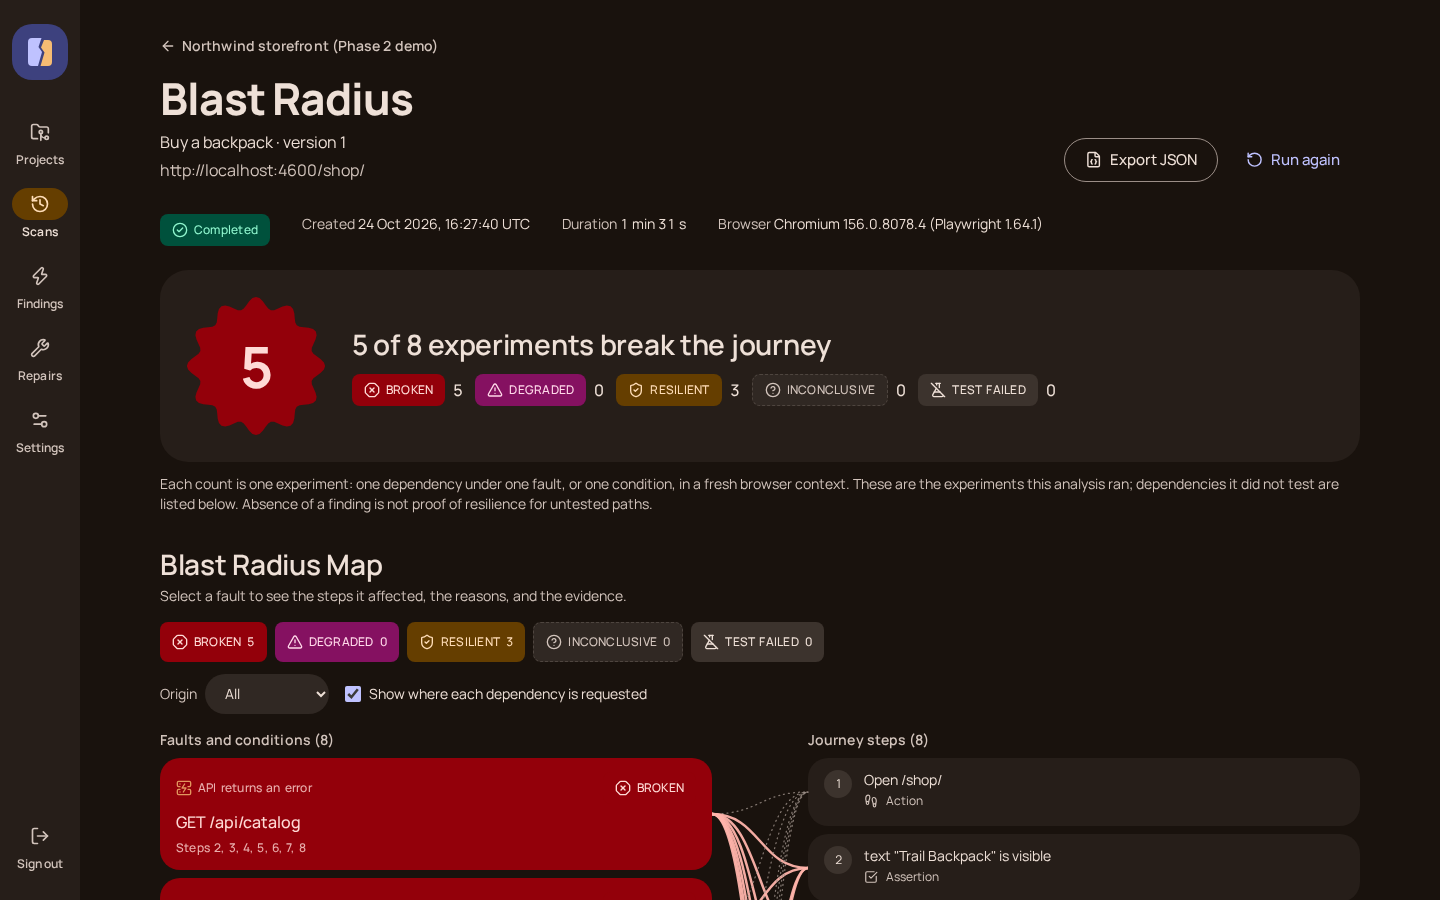
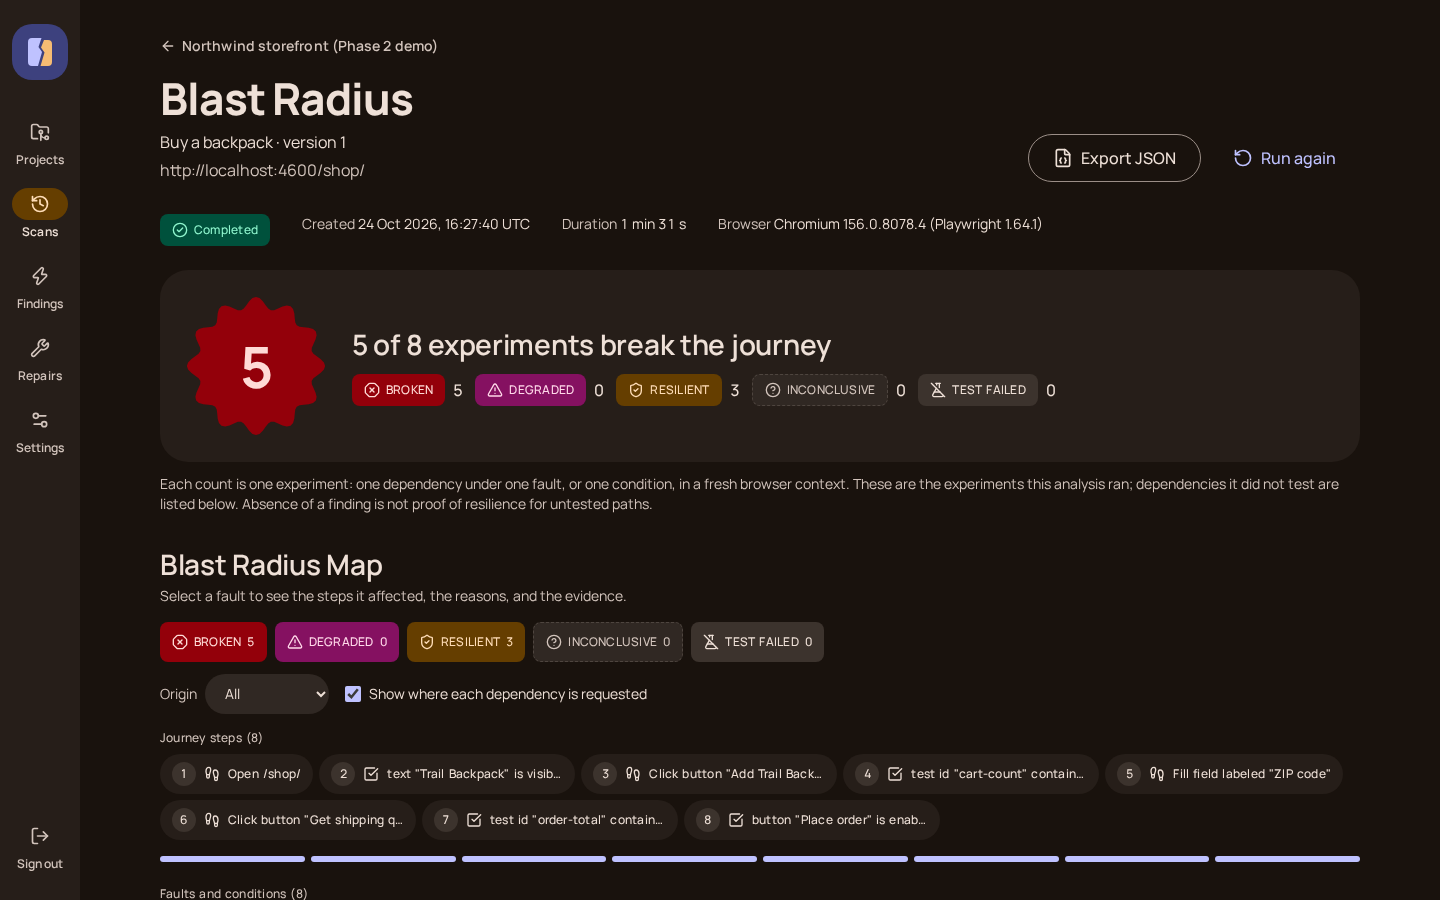
test(ui): commit visual baselines; docs: Phase 4.6 screenshots and before/after pairs
- 24 visual baselines under apps/web/tests/visual/__screenshots__ (6 screens x desktop/mobile
  x dark/light, reduced motion), captured from the live build at ac99b80 against stored records.
- tests/visual/capture-docs.mjs recaptures the documentation screenshots signed in as the
  visual-snapshots operator; global setup also records the new-scan, new-analysis, settings,
  report and real-app targets it uses.
- docs/screenshots: 01, 10 and real-app/01 recaptured; 11-16 added (new-scan, new-analysis,
  journey builder, settings, scan detail, report). Evidence screenshots untouched.
- docs/design/before-after: 9 Phase 4.6 pairs (4.6-*.before/after.png). Before images for
  01, 10 and real-app/01 are the Phase 4.5 captures; the others come from a build of 21f4b6a.

Changed region(s): [[0.0938, 0.8089, 0.9375, 1.0], [0.7188, 0.1556, 0.9375, 0.1867], [0.7812, 0.84, 0.9062, 0.8711]]

diff --git a/apps/web/tests/visual/global-setup.ts b/apps/web/tests/visual/global-setup.ts
@@ -5,7 +5,7 @@ import { fileURLToPath } from "node:url";
 import { chromium, type FullConfig } from "@playwright/test";
 import { config as loadEnv } from "dotenv";
 import { and, desc, eq, isNotNull, ne } from "drizzle-orm";
-import { createDatabase, journeys, repairRequests, scans } from "@faultline/db";
+import { createDatabase, journeys, projects, repairRequests, scans } from "@faultline/db";
 
 const root = fileURLToPath(new URL("../../../../", import.meta.url));
 const out = fileURLToPath(new URL("../../test-results/visual/", import.meta.url));
@@ -33,6 +33,13 @@ export default async function globalSetup(config: FullConfig) {
       .orderBy(desc(scans.finishedAt))
       .limit(1);
     const [journey] = await db.select({ id: journeys.id, projectId: journeys.projectId }).from(journeys).orderBy(desc(journeys.createdAt)).limit(1);
+    const [realApp] = await db
+      .select({ id: scans.id })
+      .from(scans)
+      .innerJoin(projects, eq(projects.id, scans.projectId))
+      .where(and(eq(scans.status, "completed"), isNotNull(scans.journeyId), ne(projects.origin, "http://localhost:4600")))
+      .orderBy(desc(scans.finishedAt))
+      .limit(1);
     if (!repair || !scan || !journey) throw new Error("The database has no verified repair, completed scan, or journey to snapshot.");
     mkdirSync(out, { recursive: true });
     writeFileSync(
@@ -43,6 +50,14 @@ export default async function globalSetup(config: FullConfig) {
         verification: `/repairs/${repair.id}`,
         scanDetail: `/scans/${scan.id}`,
         journeyBuilder: `/projects/${journey.projectId}/journeys/${journey.id}/edit`,
+        // Not snapshotted; used by the documentation capture script.
+        extra: {
+          newScan: `/projects/${journey.projectId}/scans/new`,
+          newAnalysis: `/projects/${journey.projectId}/blast-radius/new`,
+          settings: "/settings",
+          report: `/scans/${scan.id}/report`,
+          ...(realApp ? { realAppBlastRadius: `/scans/${realApp.id}/blast-radius` } : {}),
+        },
       }),
     );
   } finally {

diff --git a/apps/web/tests/visual/screens.spec.ts b/apps/web/tests/visual/screens.spec.ts
@@ -1,7 +1,7 @@
 import { readFileSync } from "node:fs";
 import { expect, test } from "@playwright/test";
 
-const targets = JSON.parse(readFileSync(new URL("../../test-results/visual/targets.json", import.meta.url), "utf8")) as Record<string, string>;
+const { extra: _extra, ...targets } = JSON.parse(readFileSync(new URL("../../test-results/visual/targets.json", import.meta.url), "utf8")) as Record<string, string> & { extra: unknown };
 
 const SCREENS: Array<{ name: string; path: string }> = [
   { name: "design", path: "/design" },
